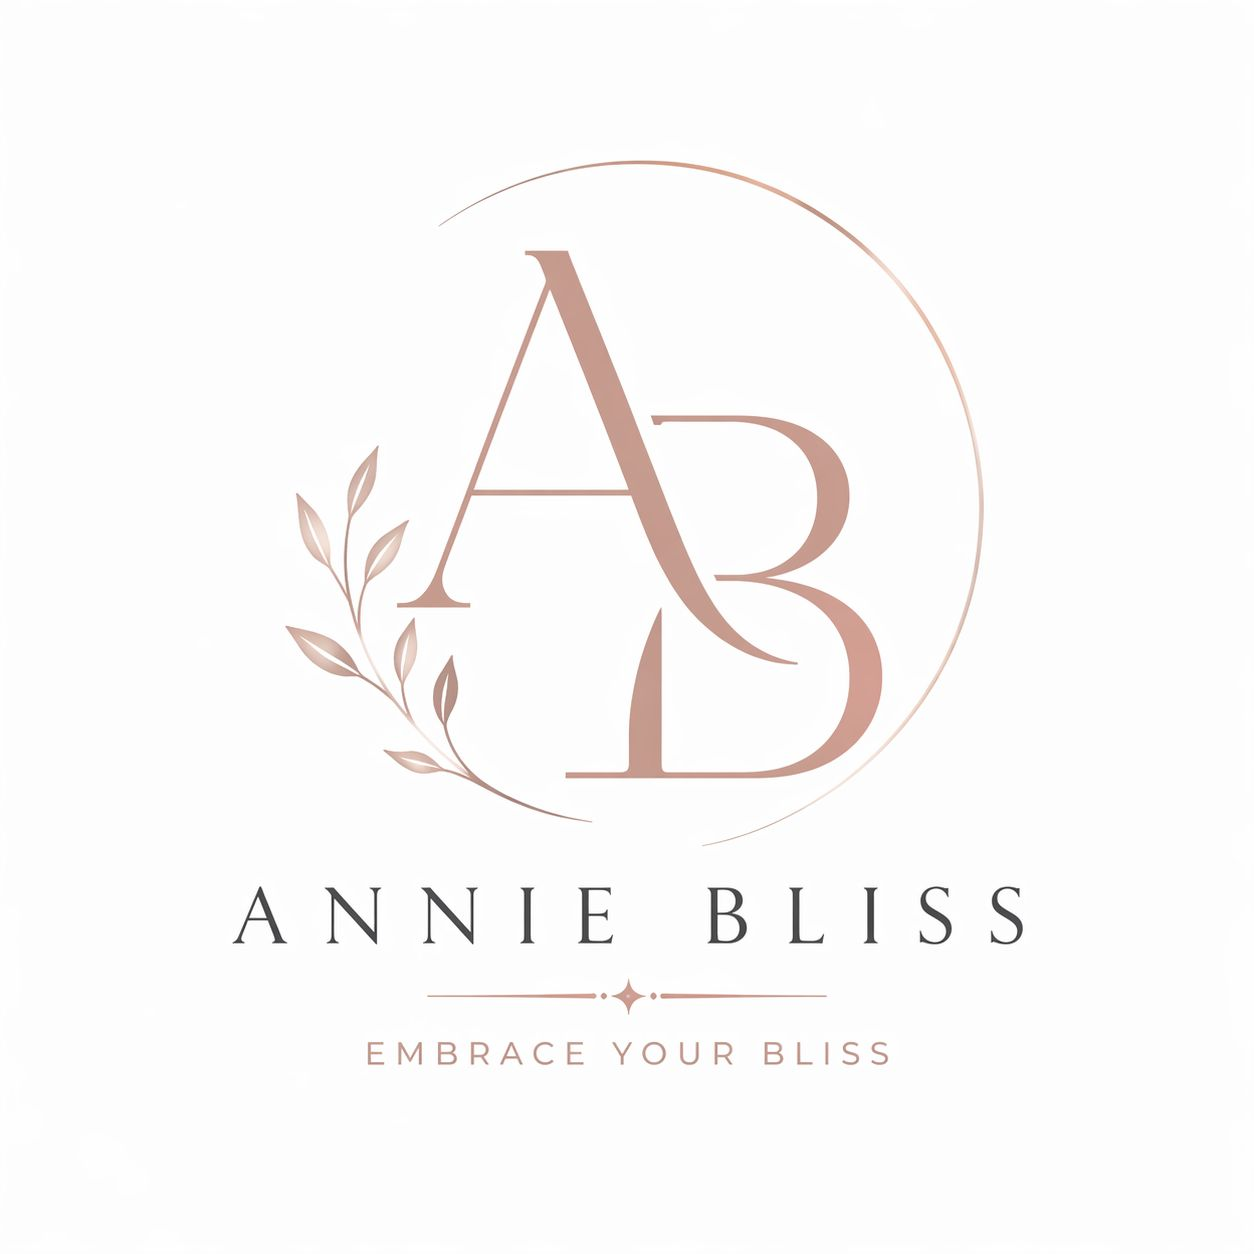
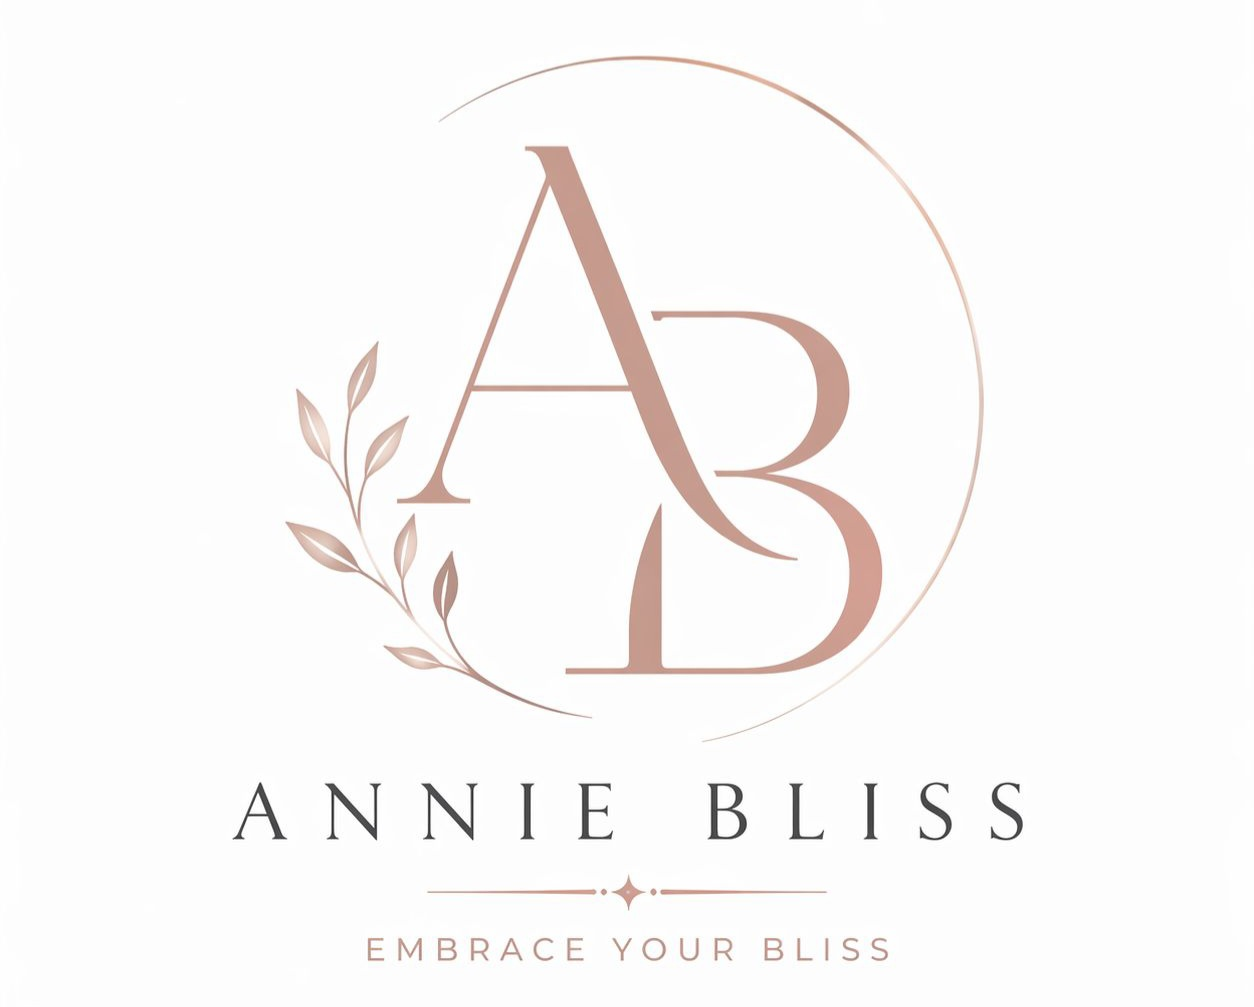
Add files via upload

diff --git a/js/script.js b/js/script.js
@@ -278,7 +278,7 @@ function openDetails(type){
 
   }
 
-  if(type === 'fashion3'){
+  if(type === 'skincare'){
 
     title.innerText = "WELCOME TO ANNIE'S BLISS STORE";
     desc.innerText = "Annie's Bliss is a fashion and lifestyle brand that offers a curated collection of skincare essentials and accessories.";
@@ -357,6 +357,57 @@ function openDetails(type){
       </div>
     `;
 
+  }
+
+  if(type === 'skincare1'){
+
+    title.innerText = "WELCOME TO KANYIN SCENTS & SKINCARE'S STORE";
+    desc.innerText = "We are passionate about providing clean, non-toxic, and organic skincare solutions that give you a natural, flawless glow. Our products are crafted with care, using only the finest ingredients to nourish your skin and enhance your natural beauty. From rejuvenating serums to hydrating moisturizers, we offer a range of skincare essentials designed to help you achieve radiant, healthy skin. At Kanyin Scents & Skincare, we believe that true beauty comes from within, and our mission is to empower you to embrace your unique glow with confidence.";
+
+    products.innerHTML = `
+      <div class="products">
+        <img src="images/IMG-20260606-WA0013.jpg">
+        <p>25ml Bakkarat Satin Oud</p>
+        <p>₦4,000</p>
+      </div>
+
+      <div class="products">
+        <img src="images/IMG-20260606-WA0012.jpg">
+        <p>Unisex Element Perfume</p>
+        <p>₦5,000</p>
+      </div>
+
+      <div class="products">
+        <img src="images/IMG-20260606-WA0011.jpg">
+        <p>25ml Mousuf</p>
+        <p>₦3,500</p>
+      </div>
+
+      <div class="products">
+        <img src="images/IMG-20260606-WA0010.jpg">
+        <p>My way Essence Perfume</p>
+        <p>₦5,500</p>
+      </div>
+
+      <div class="products">
+        <img src="images/IMG-20260606-WA0009.jpg">
+        <p>50ml pink Mousuf Wardi</p>
+        <p>₦5,500</p>
+      </div>
+   
+      <div class="products">
+        <img src="images/IMG-20260606-WA0008.jpg">
+        <p>50ml Anti-odor tag roll on</p>
+        <p>₦1,500</p>
+      </div>
+
+       <div class="products">
+        <img src="images/IMG-20260606-WA0007.jpg">
+        <p>Nude Confetti body spray</p>
+        <p>₦3,800</p>
+      </div>
+    `;
+  
   }
 
 
@@ -700,6 +751,17 @@ const sellers = {
     faculty: "Social Sciences",
     joined: "📅 Member since May, 2026",
     listings: 8,
+    status: "👑 Founding Seller",
+    badge: "✅ Verified Seller"
+  },
+
+   seller8: {
+    image: "images/IMG-20260606-WA0000.jpg",
+    name: "ISA JELILA OYINDAMOLA",
+    department: "Mass Communication",
+    faculty: "Communication and Information Sciences",
+    joined: "📅 Member since June, 2026",
+    listings: 7,
     status: "👑 Founding Seller",
     badge: "✅ Verified Seller"
   }

diff --git a/index.html b/index.html
@@ -69,6 +69,7 @@
                             <button onclick="filter('all')">All</button>
                             <button onclick="filter('food')">Food</button>
                             <button onclick="filter('fashion')">Fashion</button>
+                            <button onclick="filter('skincare')">Skincare</button>
                             <button onclick="filter('services')">Services</button>
                             <button onclick="filter('electronics')">Electronics</button>
                     </div>
@@ -142,17 +143,17 @@
                 </div>
             </div>
 
-            <div class="card" data-category="fashion">
+            <div class="card" data-category="skincare">
                     <img src="images/IMG-20260520-WA0088.jpg">
                 <div class="card-body">
                         <h3>ANNIE BLISS</h3>
-                        <p>COSMETICS </p>
+                        <p>SKINCARE PRODUCTS</p>
                         <h4>Brand note: Get your glow on with Annie Bliss! skincare essentials. </h4>
                         <h4>Motto: Radiate confidence, one glow at a time.</h4>
                         <h4>Location: University of Ilorin</h4>
                 <div class="btn-row">
                     <button onclick="openProfile('seller5')">View Profile</button>
-                    <button onclick="openDetails('fashion3')"> View Store</button>
+                    <button onclick="openDetails('skincare')"> View Store</button>
                     <a class="wa-btn" target="_blank" href="https://wa.me/[phone redacted]?text=Hello!%20Annie%20Bliss,%20I%20would%20like%20to%20patronize%20you">WhatsApp</a>
                 </div>
                 </div>
@@ -186,6 +187,22 @@
                     <button onclick="openProfile('seller7')">View Profile</button>
                     <button onclick="openDetails('food2')"> View Store</button>
                     <a class="wa-btn" target="_blank" href="https://wa.me/[phone redacted]?text=Hello!%20Midate%20Treats,%20I%20would%20like%20to%20patronize%20you">WhatsApp</a>
+                </div>
+                </div>
+            </div>
+
+            <div class="card" data-category="skincare">
+                    <img src="images/IMG-20260606-WA0001.jpg">
+                <div class="card-body">
+                        <h3>KANYIN SCENTS & SKINCARE</h3>
+                        <p>PERFUMES & SKINCARE PRODUCTS</p>
+                        <h4>Brand note: We are passionate about providing clean, non-toxic, and organic skincare solutions.</h4>
+                        <h4>Motto: Smell expensive stay unforgettable</h4>
+                        <h4>Location: University of Ilorin</h4>
+                <div class="btn-row">
+                    <button onclick="openProfile('seller8')">View Profile</button>
+                    <button onclick="openDetails('skincare1')"> View Store</button>
+                    <a class="wa-btn" target="_blank" href="https://wa.me/[phone redacted]?text=Hello!%20Kanyin%20Scents%20&%20Skincare,%20I%20would%20like%20to%20patronize%20you">WhatsApp</a>
                 </div>
                 </div>
             </div>
@@ -313,7 +330,23 @@
                             <p class="price">₦1,500 upward</p>
                             <a href="https://wa.me/2347045200520?text=Hello%20I%20saw%20your%20small%20chop%20plate%20on%20Unilorin%20campus%20marketplace,%20is%20it%20still%20available?" target="_blank" class="buy-btn"> Chat Seller</a>
                     </div>
+                </div><div class="featured-card"><img src="images/IMG-20260606-WA0010.jpg">
+                    <div class="featured-info">
+                            <h3>My way Essence Perfume</h3>
+                            <p class="price">₦5,500</p>
+                            <a href="https://wa.me/2348069828525?text=Hello%20I%20saw%20the%20my%20way%20essence%20perfume%20on%20Unilorin%20campus%20marketplace,%20is%20it%20still%20available?" target="_blank" class="buy-btn"> Chat Seller</a>
+                    </div>
                 </div>
+                
+
+                <div class="featured-card"><img src="images/IMG-20260606-WA0012.jpg">
+                    <div class="featured-info">
+                            <h3>Unisex Element Perfume</h3>
+                            <p class="price">₦5,000</p>
+                            <a href="https://wa.me/2348069828525?text=Hello%20I%20saw%20the%20unisex%20element%20perfume%20on%20Unilorin%20campus%20marketplace,%20is%20it%20still%20available?" target="_blank" class="buy-btn"> Chat Seller</a>
+                    </div>
+                </div>
+
 
                 <div class="featured-card"><img src="images/IMG-20260522-WA0083.jpg">
                     <div class="featured-info">
@@ -432,6 +465,18 @@
                 </div>
             </div>
 
+            <div class="seller-card"><img src="images/IMG-20260606-WA0001.jpg">
+                <div class="seller-info">
+                        <h3>KANYIN SCENTS & SKINCARE</h3>
+                        <p class="seller-category">PERFUMES AND SKINCARE PRODUCTS</p>
+                        <span class="badge">✅ Verified Seller</span>
+                    <div class="seller-buttons">
+                        <button onclick="openProfile('seller8')">View Profile</button>
+                        <button onclick="openDetails('skincare1')">View Store</button>
+                        <a href="https://wa.me/[phone redacted]?text=Hello%20I%20came%20across%20your%20store%20on%20Unilorin%20campus%20marketplace" target="_blank">WhatsApp</a>
+                    </div>
+                </div>
+            </div>
         </div>
     </section>
     <section class="testimonials">

diff --git a/css/style.css b/css/style.css
@@ -224,7 +224,7 @@ body {
   }
 
   .hero-right img{
-    height: 500px;
+    height: 300px;
   }
 
 }
@@ -355,7 +355,7 @@ body {
 
 .card img{
   width:  100%;
-  height: 220px;
+  height: 280px;
   object-fit: cover;
 }
 
@@ -422,6 +422,11 @@ body {
   text-align: center;
 }
 
+.details h2{
+  margin-bottom:  15px;
+  color:  green;
+}
+
 .details.active{
   display: block;
 }
@@ -444,7 +449,7 @@ body {
 .products img{
   width: 100%;
   max-width: 200px;
-  height: 120px;
+  height: 150px;
   object-fit: cover;
   border-radius: 15px;
 }
@@ -453,7 +458,7 @@ body {
   margin-top: 15px;
   padding: 10px;
   border: 0px solid black;
-  background: red;
+  background: green;
   color:  white;
   border-radius:  8px;
   cursor: pointer;
@@ -483,10 +488,10 @@ body {
   /* PARTNER CARDS */
  
   .card img{
-    height: 200px;
+    height: 280px;
   }
   .card{
-    width: 90%;
+    width: 95%;
   }
 
   /* BUTTONS */
@@ -506,8 +511,7 @@ body {
 
   /* PRODUCTS */
   .products{
-    grid-template-columns:  1fr 1fr;
-    gap:  10px;
+    gap:  15px;
   }
 
   .product img{
@@ -640,7 +644,7 @@ body {
   overflow: hidden;
   box-shadow: 0 3px 10px rgba(0,0,0,0.1);
   width: 100%;
-  max-width: 300px;
+  max-width: 325x;
 }
 
 .seller-card:hover{
@@ -650,7 +654,7 @@ body {
 
 .seller-card img{
   width:100%;
-  height:220px;
+  height: 280px;
   object-fit:cover;
 }
 
@@ -721,8 +725,12 @@ body {
     font-size:24px;
   }
 
+  .seller-card{
+    width: 350px;
+  }
+
   .seller-card img{
-    height:200px;
+    height: 290px;
   }
 
   .seller-buttons{